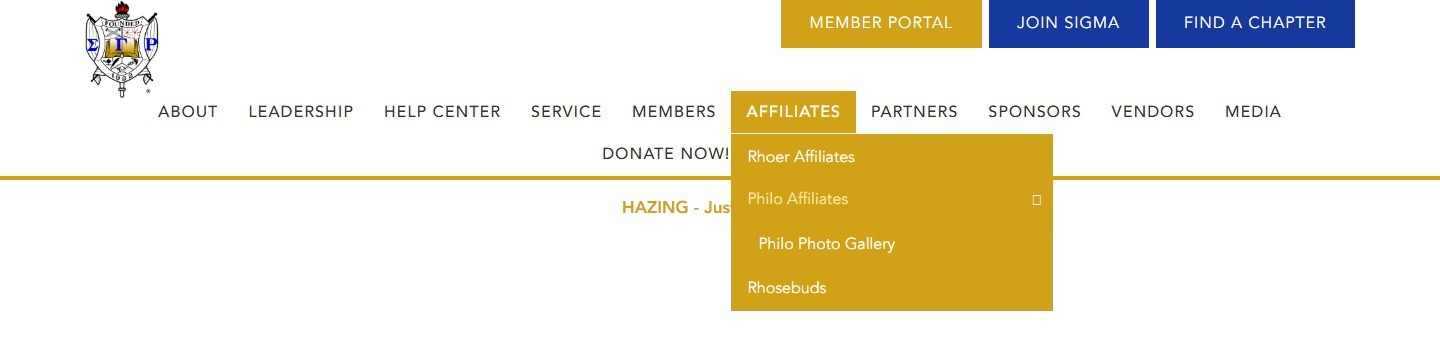
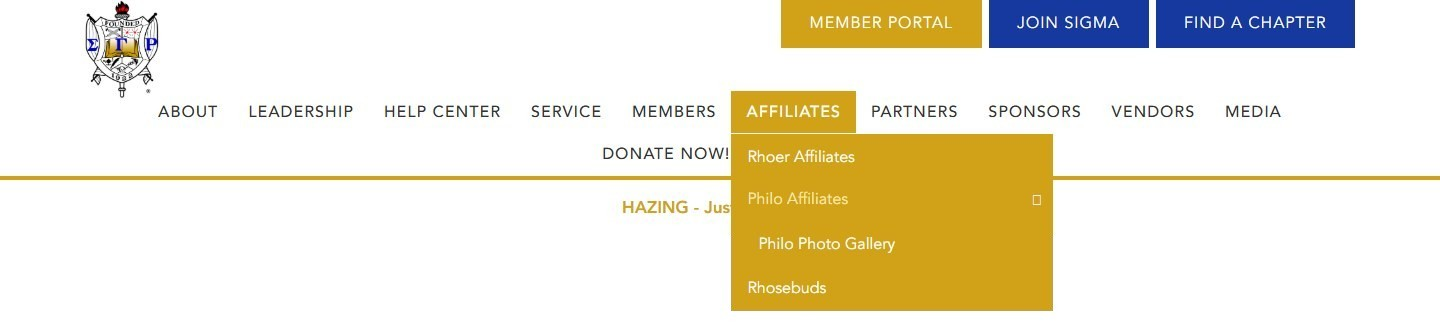
Trim blank space under nav captures

diff --git a/ia-redesign.html b/ia-redesign.html
@@ -153,13 +153,13 @@
   </figure>
 
   <figure class="shot">
-    <img src="images/sgrho/sgrho-original-members-menu-2025-03.jpg" alt="Original Sigma Gamma Rho header with the Members menu open, listing Membership, Collegiate Experience, Alumnae Engagement, and Reactivate Today." width="1440" height="330" loading="lazy">
+    <img src="images/sgrho/sgrho-original-members-menu-2025-03.jpg" alt="Original Sigma Gamma Rho header with the Members menu open, listing Membership, Collegiate Experience, Alumnae Engagement, and Reactivate Today." width="1440" height="324" loading="lazy">
     <figcaption>Before: the original Members menu, open. It lists Membership, Collegiate Experience, Alumnae Engagement, and Reactivate Today (Wayback Machine, March 19, 2025).</figcaption>
   </figure>
 
   <div class="shot-stack">
     <figure class="shot">
-      <img src="images/sgrho/sgrho-original-affiliates-nested-2025-03.jpg" alt="Original header with the Affiliates menu open: Rhoer Affiliates, Philo Affiliates expanded to show Philo Photo Gallery, and Rhosebuds." width="1440" height="340" loading="lazy">
+      <img src="images/sgrho/sgrho-original-affiliates-nested-2025-03.jpg" alt="Original header with the Affiliates menu open: Rhoer Affiliates, Philo Affiliates expanded to show Philo Photo Gallery, and Rhosebuds." width="1440" height="327" loading="lazy">
       <figcaption>Before: a menu inside a menu. Affiliates opens to Rhoer Affiliates, Philo Affiliates (which expands to Philo Photo Gallery), and Rhosebuds.</figcaption>
     </figure>
     <figure class="shot">
